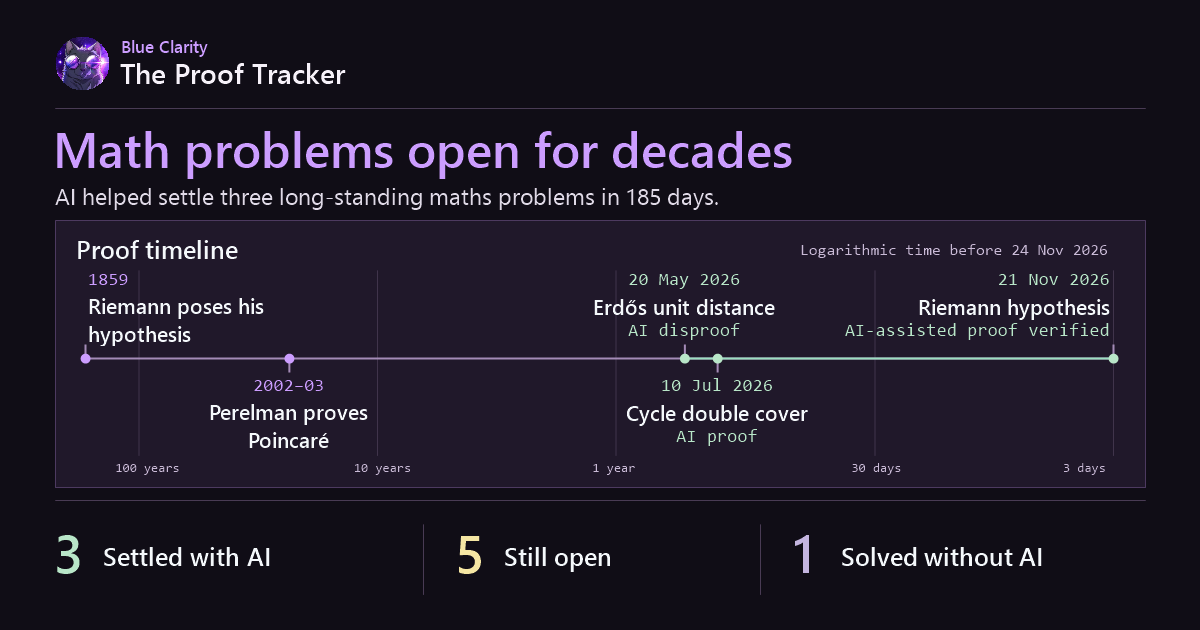
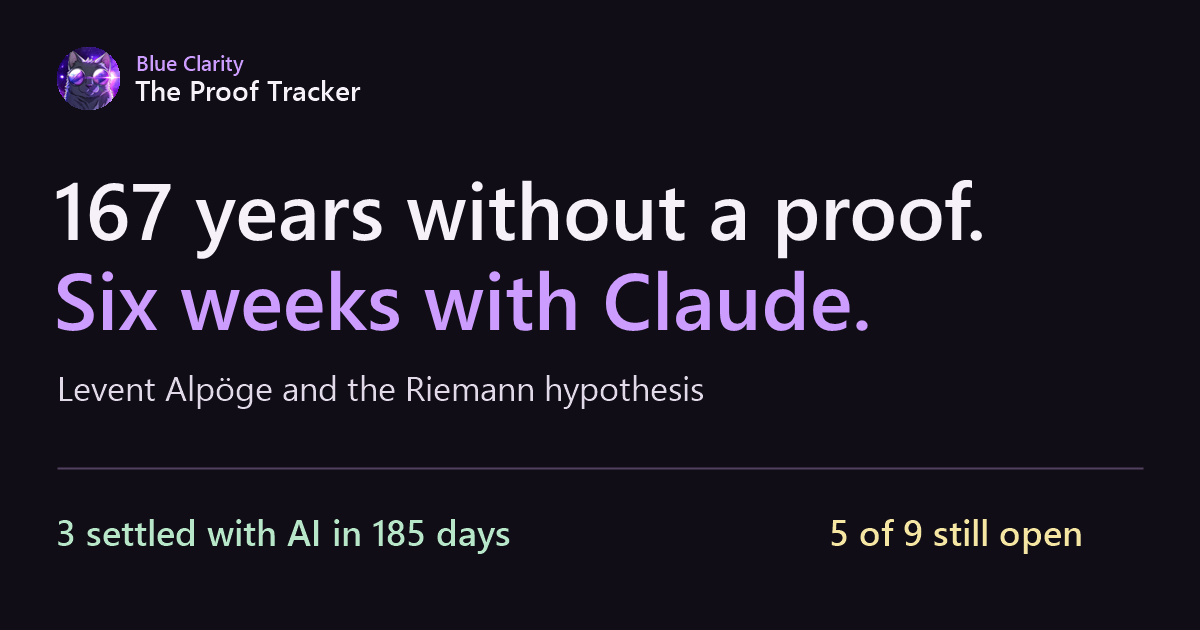
Refresh the Proof Tracker search and social previews for the Riemann proof

diff --git a/index.html b/index.html
@@ -4,25 +4,25 @@
   <meta charset="utf-8">
   <meta name="viewport" content="width=device-width, initial-scale=1">
   <meta name="theme-color" content="#100d16">
-  <meta name="description" content="Nine famous maths problems. Two proofs and one disproof with AI. Explore the evidence, the open questions and what their solutions could change.">
-  <title>The Proof Tracker by Blue Clarity | AI and the pace of mathematical discovery</title>
+  <meta name="description" content="Explore Levent Alpöge's six weeks with Claude on the Riemann hypothesis, three AI-assisted results in 185 days and what's at stake in P vs NP.">
+  <title>AI and the Millennium Prize Problems | The Proof Tracker</title>
   <link rel="canonical" href="https://blueclarityone.github.io/math-timeline/">
   <meta property="og:type" content="website">
   <meta property="og:site_name" content="Blue Clarity · The Proof Tracker">
   <meta property="og:url" content="https://blueclarityone.github.io/math-timeline/">
-  <meta property="og:title" content="Math problems open for decades | Blue Clarity">
-  <meta property="og:description" content="Nine famous maths problems. Two proofs and one disproof with AI. Explore what’s still open and what’s at stake.">
-  <meta property="og:image" content="https://blueclarityone.github.io/math-timeline/proof-tracker-share.png?v=avatar-violet-1">
+  <meta property="og:title" content="AI and the $1m Millennium Prize Problems">
+  <meta property="og:description" content="Explore Levent Alpöge's six weeks with Claude on the Riemann hypothesis, three AI-assisted results in 185 days and what's at stake in P vs NP.">
+  <meta property="og:image" content="https://blueclarityone.github.io/math-timeline/proof-tracker-share-riemann.png">
   <meta property="og:image:type" content="image/png">
   <meta property="og:image:width" content="1200">
   <meta property="og:image:height" content="630">
-  <meta property="og:image:alt" content="A logarithmic timeline from 1859 to November 2026. Three AI-assisted results arrived in a span of 185 days.">
+  <meta property="og:image:alt" content="167 years without a proof. Six weeks with Claude. Levent Alpöge and the Riemann hypothesis. Of nine tracked problems, three were settled with AI in 185 days and five are still open.">
   <meta name="twitter:creator" content="@blue_clarity">
   <meta name="twitter:card" content="summary_large_image">
-  <meta name="twitter:title" content="Math problems open for decades | Blue Clarity">
-  <meta name="twitter:description" content="Nine famous maths problems. Two proofs and one disproof with AI. Explore what’s still open and what’s at stake.">
-  <meta name="twitter:image" content="https://blueclarityone.github.io/math-timeline/proof-tracker-share.png?v=avatar-violet-1">
-  <meta name="twitter:image:alt" content="A logarithmic timeline from 1859 to November 2026. Three AI-assisted results arrived in a span of 185 days.">
+  <meta name="twitter:title" content="AI and the $1m Millennium Prize Problems">
+  <meta name="twitter:description" content="Explore Levent Alpöge's six weeks with Claude on the Riemann hypothesis, three AI-assisted results in 185 days and what's at stake in P vs NP.">
+  <meta name="twitter:image" content="https://blueclarityone.github.io/math-timeline/proof-tracker-share-riemann.png">
+  <meta name="twitter:image:alt" content="167 years without a proof. Six weeks with Claude. Levent Alpöge and the Riemann hypothesis. Of nine tracked problems, three were settled with AI in 185 days and five are still open.">
   <link rel="icon" type="image/png" sizes="160x160" href="./clarity-mark.png?v=avatar-1">
   <link rel="preload" href="./assets/inter-latin.woff2" as="font" type="font/woff2" crossorigin>
   <style>@font-face{font-family:Inter;src:url("./assets/inter-latin.woff2") format("woff2");font-style:normal;font-weight:100 900;font-display:swap}
